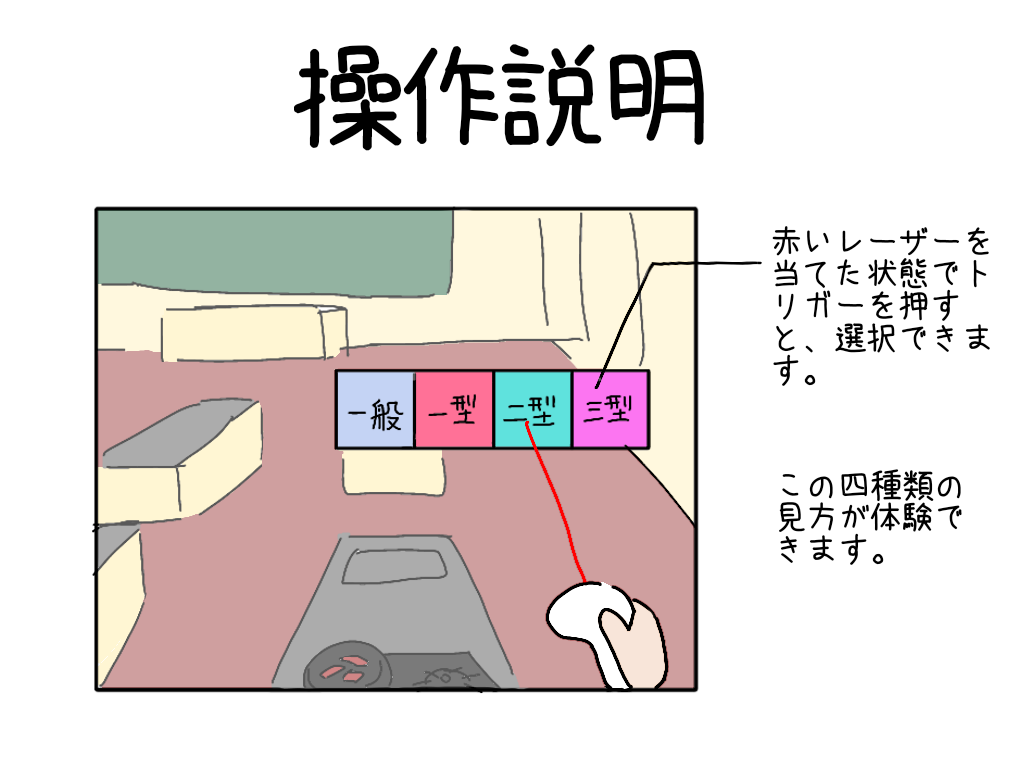
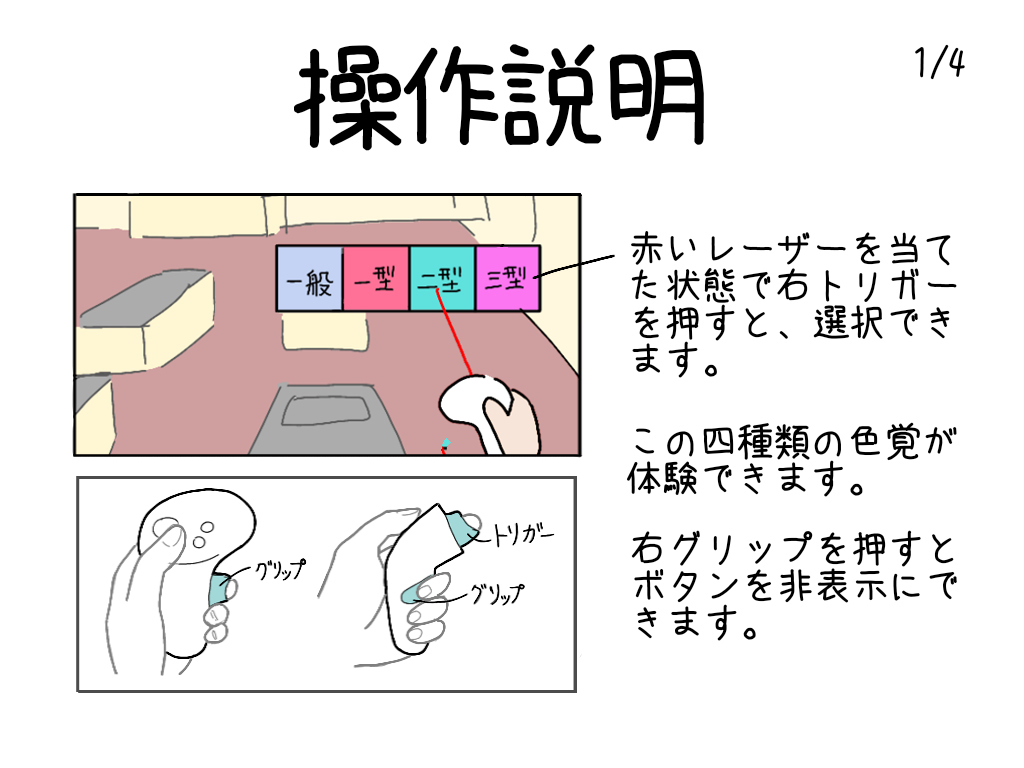
Add files via upload

diff --git a/index.html b/index.html
@@ -73,6 +73,8 @@
           btn="hover: button/3gata_2.jpeg; clearedHover: button/3gata_1.jpeg; sky: #B2E9E8; room: 3Dmodel/classroom_3.glb; kitchen: 3Dmodel/kitchen_s3.glb; niku_0: yakiniku_00_t.glb; niku_1: yakiniku_01_t.glb; niku_2: yakiniku_02_t.glb"
           class="collidable" data-type="color_btn" position="0.6 0 -1.5" height="0.2" width="0.2"></a-image>
         <!-- <a-cursor></a-cursor> -->
+        <!-- お手本表示 -->
+        <a-image src="sample.png" id="sample" position="-0.8 -0.1 -1.5" height="0.6" width="0.9"></a-image>
 
         <a-entity id="ctlR" laser-controls="hand: right"
           raycaster="far: 20; interval: 1000; lineColor: red; objects: .collidable" position="0 1 0"></a-entity>
@@ -86,6 +88,7 @@
     // 変数
     const aGltfModel = document.querySelectorAll('a-gltf-model');
     const collidable = document.querySelectorAll('.collidable');
+    const sample = document.getElementById('sample');
     let ctlR = document.querySelector('#ctlR');
     let ctlL = document.querySelector('#ctlL');
     let meshes0 = [];
@@ -97,7 +100,7 @@
     const kitchenColor = document.querySelectorAll('.kitchen');
     let imageNumber = 0;
     const introImage = document.getElementById('introImage');
-    const imageList = ["1.jpeg", "2.jpeg", "3.jpeg", "4.jpeg", "sousa_1.png", "sousa_2.png"];
+    const imageList = ["1.jpeg", "2.jpeg", "3.jpeg", "4.jpeg", "5.jpeg", "sousa_1.png", "sousa_2.png", "sousa_3.png", "sousa_4.png"];
     const introSousa = document.getElementById('introSousa');
     let fadingOut = true;
     let opacity_0 = 1.0;
@@ -105,6 +108,7 @@
     let opacity_2 = 0.0;
     let vol = 0;
     let uiVisible = true;
+    let sampleVisible = false;
 
     // 表示する文字
     // const textList = ["色覚多様性について\n色の見え方は人によって異なります。\nまずは実際に、どのように見えるのか見てみましょう。",
@@ -119,6 +123,7 @@
     collidable.forEach(m => {
       m.setAttribute('visible', 'false');
     });
+    sample.setAttribute('visible', 'false');
 
     // 説明パート
     if (introImage.getAttribute('visible')) {
@@ -127,7 +132,7 @@
           imageNumber++;
           introImage.setAttribute('src', imageList[imageNumber]);
         }
-        if (imageNumber > 2 && imageNumber < imageList.length) {
+        if (imageNumber == 5) {
           aGltfModel.forEach(m => {
             m.setAttribute('visible', 'true');
             introSousa.setAttribute('visible', 'false');
@@ -137,6 +142,20 @@
             m.setAttribute('visible', 'true');
           })
           introImage.setAttribute('visible', 'false');
+
+          // 右gripを押すとUI非表示
+          ctlR.addEventListener('gripup', () => {
+            uiVisible = !uiVisible;
+            collidable.forEach(m => {
+              m.setAttribute('visible', uiVisible);
+            });
+          });
+          // 左gripを押すとお手本表示
+          ctlL.addEventListener('gripup', () => {
+            sampleVisible = !sampleVisible;
+            sample.setAttribute('visible', sampleVisible);
+            console.log(sampleVisible)
+          });
         }
       });
       ctlL.addEventListener('triggerup', () => {
@@ -319,14 +338,7 @@
     });
 
 
-    // gripを押すとUI非表示
-    ctlL.addEventListener('gripup', () => {
-      uiVisible = !uiVisible;
-      document.querySelectorAll('.collidable').forEach(m => {
-        m.setAttribute('visible', uiVisible);
-        console.log(uiVisible)
-      });
-    });
+
 
   </script>
 </body>
